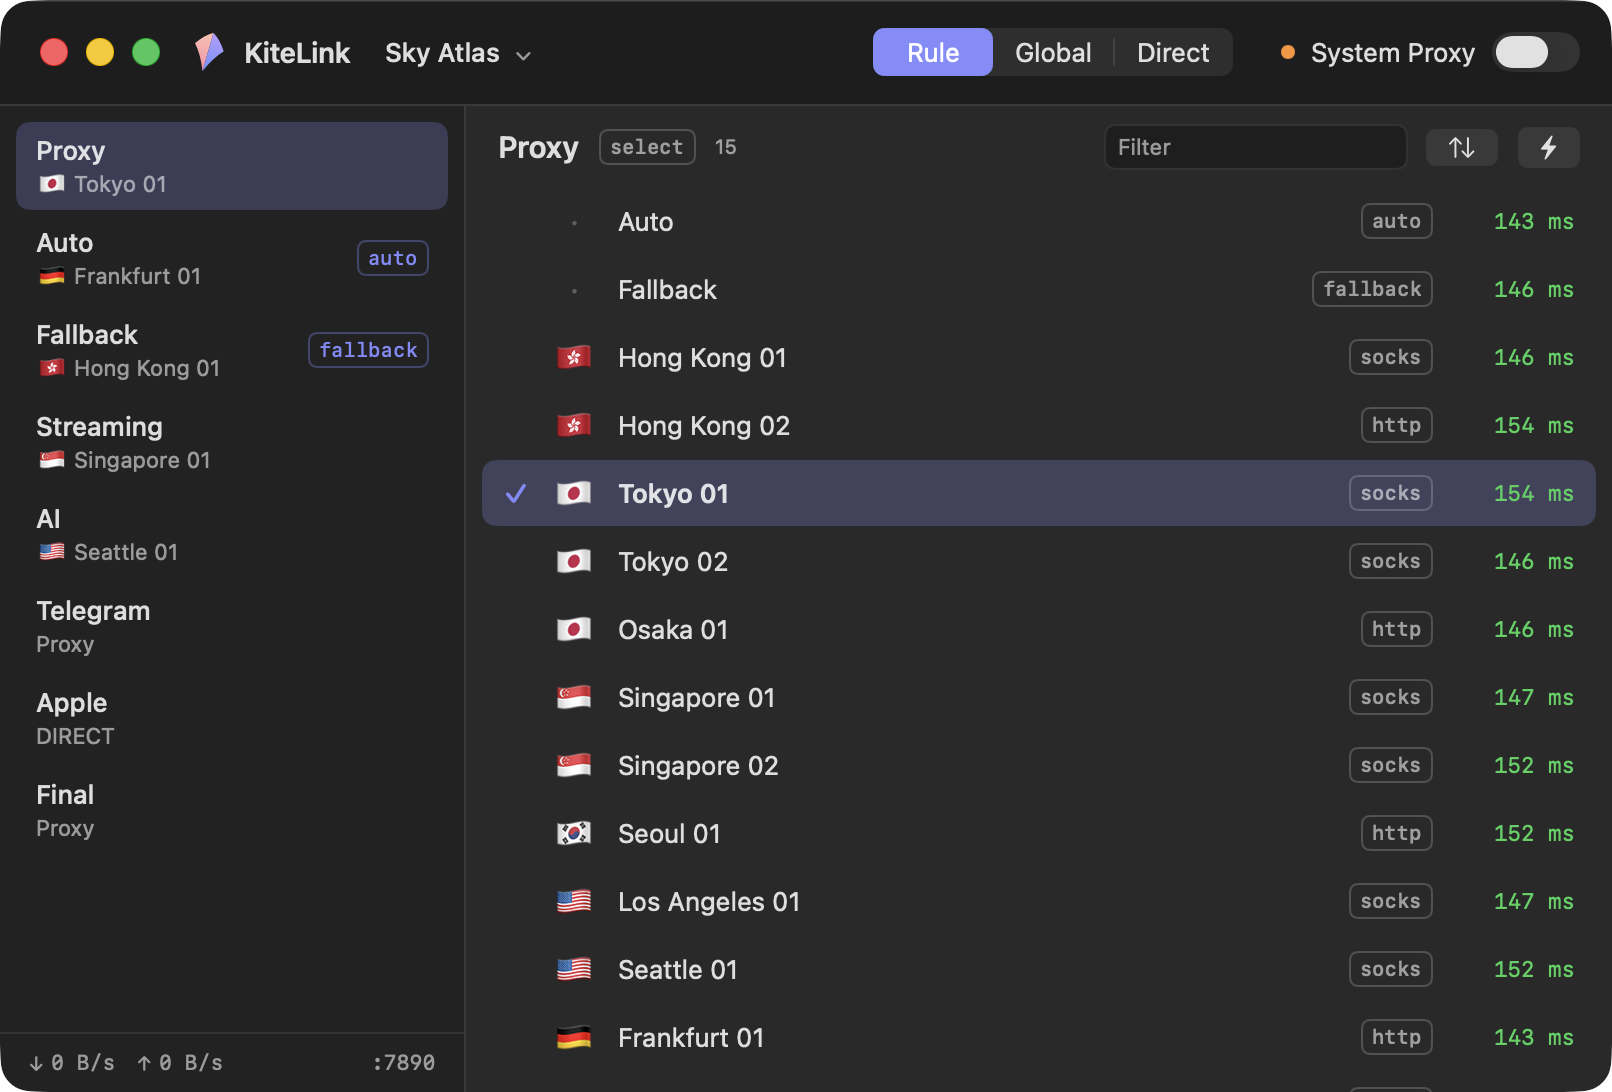
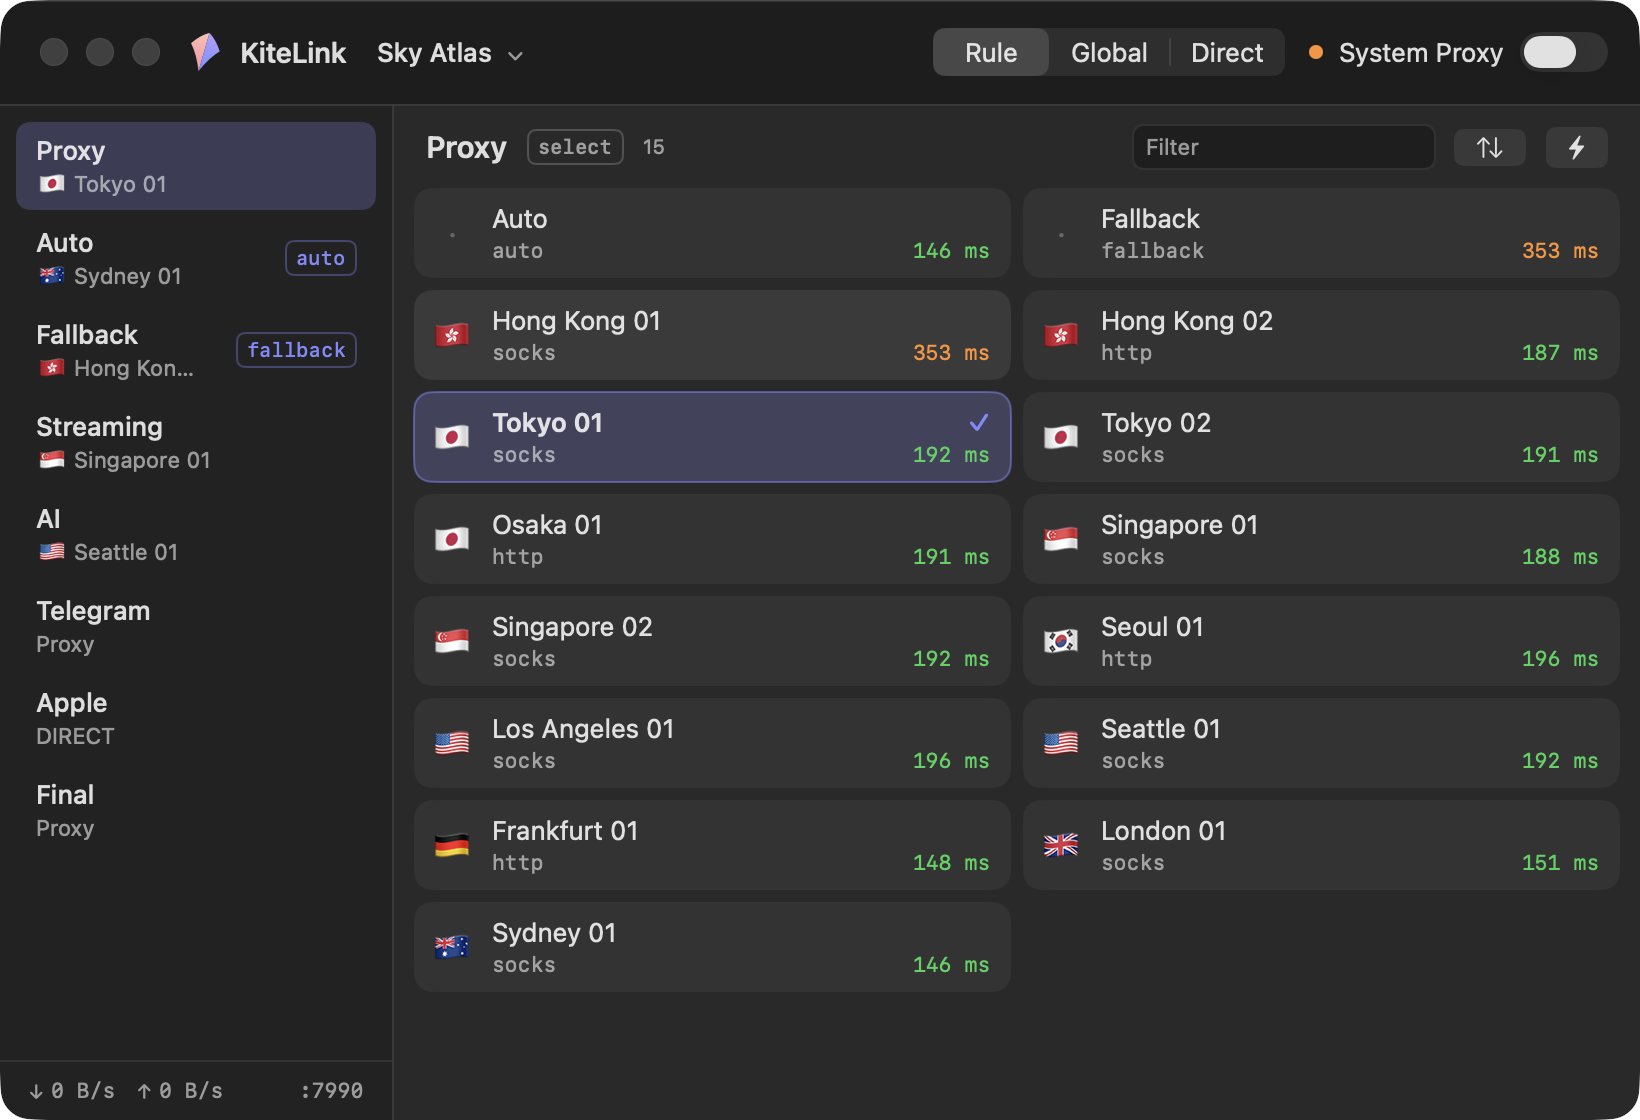
Node grid, and a smaller minimum window
The nodes are now a grid of two-line cards (name; protocol and latency), two
columns at the smallest window and more as it widens, so a group shows about
twice as many nodes at once. The minimum window drops from 760 × 550 to
700 × 518; the top bar compacts to fit and a long profile name truncates
instead of widening it.

diff --git a/macos/KiteLink/MainView.swift b/macos/KiteLink/MainView.swift
@@ -25,7 +25,7 @@ struct MainView: View {
         .background(Kite.bg)
         .background(WindowSetup())
         .overlay(alignment: .bottom) { NoticeView() }
-        .frame(minWidth: 760, minHeight: 520)
+        .frame(minWidth: Layout.minWidth, minHeight: Layout.minContentHeight)
         .sheet(isPresented: $m.showProfiles) { ProfilesSheet().environmentObject(m) }
         .sheet(isPresented: $m.showImport) { ImportSheet(prefill: m.importPrefill, prefillName: m.importPrefillName).environmentObject(m) }
         .onOpenURL { m.handle(url: $0) }
@@ -47,11 +47,11 @@ struct TopBar: View {
     @EnvironmentObject var m: AppModel
 
     var body: some View {
-        HStack(spacing: 14) {
+        HStack(spacing: 12) {
             Color.clear.frame(width: 78)
-            Lockup()
+            Lockup().fixedSize()
             if !m.profiles.isEmpty { ProfileMenu() }
-            Spacer()
+            Spacer(minLength: 0)
             if !m.profiles.isEmpty {
                 ModePicker()
                 SystemProxyToggle()
@@ -78,10 +78,13 @@ struct ProfileMenu: View {
         } label: {
             (Text(m.activeProfile?.name ?? "No profile").font(.system(size: 13, weight: .medium))
                 + Text("  ") + Text(Image(systemName: "chevron.down")).font(.system(size: 8, weight: .bold)).foregroundColor(.secondary))
+                .lineLimit(1).truncationMode(.middle)
         }
         .menuStyle(.borderlessButton)
         .menuIndicator(.hidden)
-        .fixedSize()
+        .fixedSize(horizontal: false, vertical: true)
+        .frame(maxWidth: 220, alignment: .leading)
+        .layoutPriority(-1)
         .help("Switch profile")
     }
 }
@@ -94,7 +97,7 @@ struct ModePicker: View {
         }
         .pickerStyle(.segmented)
         .labelsHidden()
-        .frame(width: 200)
+        .frame(width: 176)
         .help("Rule follows the profile's rules; Global sends everything through the selected node; Direct bypasses the proxy")
     }
 }
@@ -109,6 +112,7 @@ struct SystemProxyToggle: View {
                 .controlSize(.small)
                 .tint(Kite.accent)
         }
+        .fixedSize()
         .help(m.coreState.label)
     }
     var dot: Color {
@@ -301,14 +305,14 @@ struct NodeList: View {
         VStack(spacing: 0) {
             if let g = m.currentGroup {
                 HStack(spacing: 10) {
-                    Text(g.name).font(.system(size: 15, weight: .semibold)).lineLimit(1)
-                    Tag(text: g.typeLabel)
-                    Text("\(g.all?.count ?? 0)").font(.caption).foregroundStyle(.secondary)
+                    Text(g.name).font(.system(size: 15, weight: .semibold)).lineLimit(1).layoutPriority(-1)
+                    Tag(text: g.typeLabel).fixedSize()
+                    Text("\(g.all?.count ?? 0)").font(.caption).foregroundStyle(.secondary).fixedSize()
                     if g.isAutomatic && g.fixed != nil {
                         Button("Let it choose") { Task { await m.unfix(group: g.name) } }.controlSize(.small).help("Clear the manual pick so the group tests and chooses again")
                     }
                     Spacer()
-                    TextField("Filter", text: $filter).textFieldStyle(.roundedBorder).controlSize(.small).frame(width: 150)
+                    TextField("Filter", text: $filter).textFieldStyle(.roundedBorder).controlSize(.small).frame(minWidth: 80, maxWidth: 150)
                     Toggle(isOn: $sortByLatency) { Image(systemName: "arrow.up.arrow.down") }.toggleStyle(.button).controlSize(.small).help("Sort by latency")
                     Button {
                         Task { await m.test(group: g.name) }
@@ -322,9 +326,10 @@ struct NodeList: View {
                 .padding(.horizontal, 16).padding(.vertical, 10)
                 ScrollViewReader { scroller in
                     ScrollView {
-                        LazyVStack(spacing: 1) {
+                        // Two columns at the narrowest window, more as it widens.
+                        LazyVGrid(columns: [GridItem(.adaptive(minimum: Layout.nodeCell), spacing: 6)], spacing: 6) {
                             ForEach(nodes) { n in
-                                NodeRow(node: n, delay: m.delay(of: n), selected: g.now == n.name, testing: m.testing.contains(n.name)) {
+                                NodeCell(node: n, delay: m.delay(of: n), selected: g.now == n.name, testing: m.testing.contains(n.name)) {
                                     Task { await m.select(group: g.name, node: n.name) }
                                 } test: {
                                     Task { await m.test(node: n.name) }
@@ -332,9 +337,9 @@ struct NodeList: View {
                                 .id(n.name)
                             }
                         }
-                        .padding(.horizontal, 8).padding(.bottom, 12)
+                        .padding(.horizontal, 10).padding(.bottom, 12)
                     }
-                    // Open a group on the node it is using, not at the top of a hundred rows.
+                    // Open a group on the node it is using, not at the top of a hundred nodes.
                     .onChange(of: g.name, initial: true) { _, _ in
                         if let now = g.now { DispatchQueue.main.async { scroller.scrollTo(now, anchor: .center) } }
                     }
@@ -346,7 +351,8 @@ struct NodeList: View {
     }
 }
 
-struct NodeRow: View {
+/// One node: flag, name, and under the name its protocol and latency. The one in use is tinted and ticked.
+struct NodeCell: View {
     var node: ProxyInfo
     var delay: Int?
     var selected: Bool
@@ -358,27 +364,33 @@ struct NodeRow: View {
     var body: some View {
         let n = NodeName(node.name)
         Button(action: action) {
-            HStack(spacing: 10) {
-                Image(systemName: "checkmark").font(.system(size: 11, weight: .bold)).foregroundStyle(Kite.accent).frame(width: 14).opacity(selected ? 1 : 0)
+            HStack(spacing: 8) {
                 FlagView(name: n, isGroup: node.isGroup)
-                Text(n.title).font(.system(size: 13, weight: selected ? .semibold : .regular)).lineLimit(1)
-                Spacer(minLength: 8)
-                Tag(text: node.typeLabel)
-                Group {
-                    if testing { ProgressView().controlSize(.mini) }
-                    else if let d = delay { Text(d > 0 ? "\(d) ms" : "timeout").foregroundStyle(Kite.latency(d)) }
-                    else { Text("—").foregroundStyle(Kite.latency(nil)) }
+                VStack(alignment: .leading, spacing: 2) {
+                    HStack(spacing: 5) {
+                        Text(n.title).font(.system(size: 13, weight: selected ? .semibold : .regular)).lineLimit(1)
+                        Spacer(minLength: 0)
+                        if selected { Image(systemName: "checkmark").font(.system(size: 10, weight: .bold)).foregroundStyle(Kite.accent) }
+                    }
+                    HStack(spacing: 5) {
+                        Text(node.typeLabel).foregroundStyle(.secondary)
+                        Spacer(minLength: 0)
+                        if testing { ProgressView().controlSize(.mini).scaleEffect(0.7).frame(height: 10) }
+                        else if let d = delay { Text(d > 0 ? "\(d) ms" : "timeout").foregroundStyle(Kite.latency(d)) }
+                        else { Text("—").foregroundStyle(Kite.latency(nil)) }
+                    }
+                    .font(.system(size: 10.5, design: .monospaced))
                 }
-                .font(.system(size: 11, design: .monospaced))
-                .frame(width: 62, alignment: .trailing)
             }
-            .padding(.horizontal, 10).padding(.vertical, 7)
+            .padding(.leading, 7).padding(.trailing, 10).padding(.vertical, 7)
             .frame(maxWidth: .infinity, alignment: .leading)
-            .background(RoundedRectangle(cornerRadius: 7).fill(selected ? Kite.rowSelected : hover ? Color.primary.opacity(0.04) : .clear))
+            .background(RoundedRectangle(cornerRadius: 9).fill(selected ? Kite.rowSelected : hover ? Kite.cardHover : Kite.card))
+            .overlay(RoundedRectangle(cornerRadius: 9).stroke(selected ? Kite.accent.opacity(0.5) : Color.clear, lineWidth: 1))
             .contentShape(Rectangle())
         }
         .buttonStyle(.plain)
         .onHover { hover = $0 }
+        .help(node.name)
         .contextMenu {
             Button("Test Latency") { test() }
             Button("Copy Name") { NSPasteboard.general.clearContents(); NSPasteboard.general.setString(node.name, forType: .string) }

diff --git a/macos/KiteLink/DebugServer.swift b/macos/KiteLink/DebugServer.swift
@@ -15,6 +15,7 @@ import KiteKit
 ///   POST /window {"id":"console|settings|main"}
 ///   POST /proxy  {"on":true|false}   what the System Proxy switch does
 ///   POST /appearance {"mode":"light|dark|system"}
+///   POST /resize {"w":…,"h":…}       resize the main window, clamped to its minimum
 @MainActor
 final class DebugServer {
     static var shared: DebugServer?
@@ -92,7 +93,9 @@ final class DebugServer {
             return encode(state)
         case ("GET", "/window"):
             guard let w = mainWindow else { return "{}" }
-            return encode(["number": w.windowNumber, "x": w.frame.minX, "y": w.frame.minY, "w": w.frame.width, "h": w.frame.height, "key": w.isKeyWindow])
+            if let size = json["w"] as? Double, let h = json["h"] as? Double { w.setFrame(NSRect(x: w.frame.minX, y: w.frame.maxY - h, width: size, height: h), display: true) }
+            return encode(["number": w.windowNumber, "x": w.frame.minX, "y": w.frame.minY, "w": w.frame.width, "h": w.frame.height, "key": w.isKeyWindow,
+                           "minW": w.minSize.width, "minH": w.minSize.height, "contentMinW": w.contentMinSize.width, "contentMinH": w.contentMinSize.height])
         case ("POST", "/click"):
             guard let w = target(json), let x = json["x"] as? Double, let y = json["y"] as? Double else { return #"{"error":"no window"}"# }
             let count = json["count"] as? Int ?? 1
@@ -161,6 +164,13 @@ final class DebugServer {
             let on = json["on"] as? Bool ?? !m.settings.systemProxy
             Task { await m.setSystemProxy(on) }
             return "{}"
+        case ("POST", "/resize"):
+            // Asks for a size the way a drag would: AppKit clamps it to the window's minimum.
+            guard let w = mainWindow, let width = json["w"] as? Double, let h = json["h"] as? Double else { return "{}" }
+            let size = w.constrainFrameRect(NSRect(x: w.frame.minX, y: w.frame.maxY - h, width: width, height: h), to: w.screen).size
+            let clamped = NSSize(width: max(size.width, w.minSize.width), height: max(size.height, w.minSize.height))
+            w.setFrame(NSRect(x: w.frame.minX, y: w.frame.maxY - clamped.height, width: clamped.width, height: clamped.height), display: true)
+            return encode(["w": w.frame.width, "h": w.frame.height, "minW": w.minSize.width, "minH": w.minSize.height])
         case ("POST", "/window"):
             let id = json["id"] as? String ?? "main"
             if id == "settings" { NSApp.sendAction(Selector(("showSettingsWindow:")), to: nil, from: nil) }

diff --git a/macos/KiteLink/Theme.swift b/macos/KiteLink/Theme.swift
@@ -24,8 +24,8 @@ enum Kite {
     static let rowSelected = dynamic(light: NSColor(red: 0.427, green: 0.455, blue: 0.957, alpha: 0.13), dark: NSColor(red: 0.56, green: 0.58, blue: 1, alpha: 0.24))
     static let hairline = Color.primary.opacity(0.09)
     /// A quiet card on the window background.
-    static let card = dynamic(light: NSColor(white: 1, alpha: 0.7), dark: NSColor(white: 1, alpha: 0.045))
-    static let cardHover = dynamic(light: NSColor(white: 1, alpha: 1), dark: NSColor(white: 1, alpha: 0.08))
+    static let card = dynamic(light: NSColor(white: 0, alpha: 0.035), dark: NSColor(white: 1, alpha: 0.045))
+    static let cardHover = dynamic(light: NSColor(white: 0, alpha: 0.065), dark: NSColor(white: 1, alpha: 0.08))
     /// The inside of a text field drawn by the app.
     static let field = dynamic(light: NSColor(white: 1, alpha: 1), dark: NSColor(white: 1, alpha: 0.06))
     static let good = Color(nsColor: .systemGreen)
@@ -39,6 +39,17 @@ enum Kite {
         if ms < 600 { return fair }
         return poor
     }
+}
+
+/// Window and list measures. The smallest window matches Clash Verge's (700 × 518), where the node list still
+/// shows two columns next to the default group list.
+enum Layout {
+    static let minWidth: CGFloat = 700
+    static let minHeight: CGFloat = 518
+    /// SwiftUI adds the title bar to the content's minimum, so the content asks for that much less.
+    static var minContentHeight: CGFloat = 486
+    /// Narrowest node cell; two fit beside the default group list at the minimum width.
+    static let nodeCell: CGFloat = 226
 }
 
 extension Font {

diff --git a/macos/KiteLink/WindowChrome.swift b/macos/KiteLink/WindowChrome.swift
@@ -23,7 +23,7 @@ struct WindowSetup: NSViewRepresentable {
             w.titleVisibility = .hidden
             w.styleMask.insert(.fullSizeContentView)
             w.toolbar = nil
-            w.minSize = NSSize(width: 760, height: 520)
+            w.minSize = NSSize(width: Layout.minWidth, height: Layout.minHeight)
             w.tabbingMode = .disallowed
             w.isMovableByWindowBackground = true
             for name in [NSWindow.didResizeNotification, NSWindow.didUpdateNotification, NSWindow.didExitFullScreenNotification, NSWindow.didBecomeKeyNotification] {

diff --git a/README.md b/README.md
@@ -2,7 +2,7 @@
 <h1 align="center">KiteLink</h1>
 <p align="center">A native proxy client for Clash / mihomo profiles.<br><b>Paste a link, pick a node, fly.</b></p>
 
-<p align="center"><img src="docs/images/main.png" width="760" alt="KiteLink main window: groups on the left, nodes with latency on the right"></p>
+<p align="center"><img src="docs/images/main.png" width="760" alt="KiteLink main window: groups on the left, a grid of nodes with latency on the right"></p>
 
 KiteLink is a small, native front end for the [mihomo](https://github.com/MetaCubeX/mihomo) core. It reads the same
 subscriptions and profiles as Clash Verge Rev, and is built around the two things most people actually do with a
@@ -19,7 +19,7 @@ for it.
 |---|---|
 | **One step to a working proxy** | Paste a subscription link (or open a `clash://install-config?url=…` link, or drop a `.yaml` file) and the node list is on screen about a second later. |
 | **Bring your setup** | *Import from Clash Verge Rev* copies its subscriptions, usage and node choices in one click, offline, without changing anything over there. |
-| **Nodes at a glance** | Groups on the left, nodes on the right with flag, protocol and latency. Latency is tested on its own the first time a group is shown; click a node to use it. |
+| **Nodes at a glance** | Groups on the left, nodes on the right as a grid with flag, protocol and latency — two columns in the smallest window, more as it widens. Latency is tested on its own the first time a group is shown; click a node to use it. The group list can be dragged narrower or wider and remembers its width. |
 | **Lives in the menu bar** | The kite in the menu bar has the switch, the mode (Rule / Global / Direct), every group with its nodes, and the profile switch. The window is optional. |
 | **Polite system proxy** | Switching System Proxy off (or quitting) puts back whatever proxy settings the Mac had before, so KiteLink can sit next to another client or a company proxy. |
 | **Subscriptions that keep themselves fresh** | Honours `profile-update-interval`, shows quota and expiry from `subscription-userinfo`, opens the provider's panel from `profile-web-page-url`. |

diff --git a/docs/DESIGN.md b/docs/DESIGN.md
@@ -14,7 +14,8 @@ those two are the product and everything else is a drawer you can open.
    (`content-disposition`), its quota and expiry come from `subscription-userinfo`, its refresh interval from
    `profile-update-interval`. There is nothing to configure before the node list appears.
 2. **Pick** — the window is the list: groups on the left with what each is using, the selected group's nodes on the
-   right. One click selects. Latency is already there, because a group is tested the first time it is shown.
+   right as a grid of small cards (two columns at the smallest window, 700 × 518, more as it widens). One click
+   selects. Latency is already there, because a group is tested the first time it is shown.
 3. **Leave** — close the window. The kite stays in the menu bar with the switch, the mode and the same node lists.
 
 ## Rules
